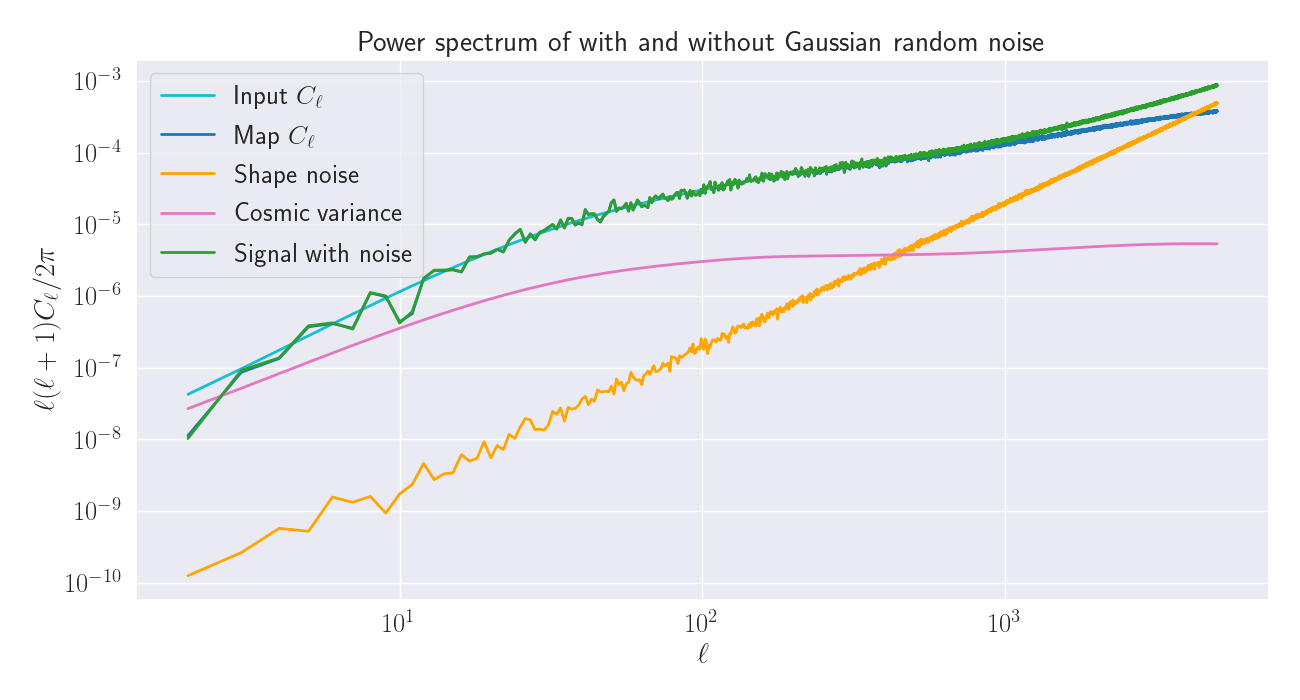
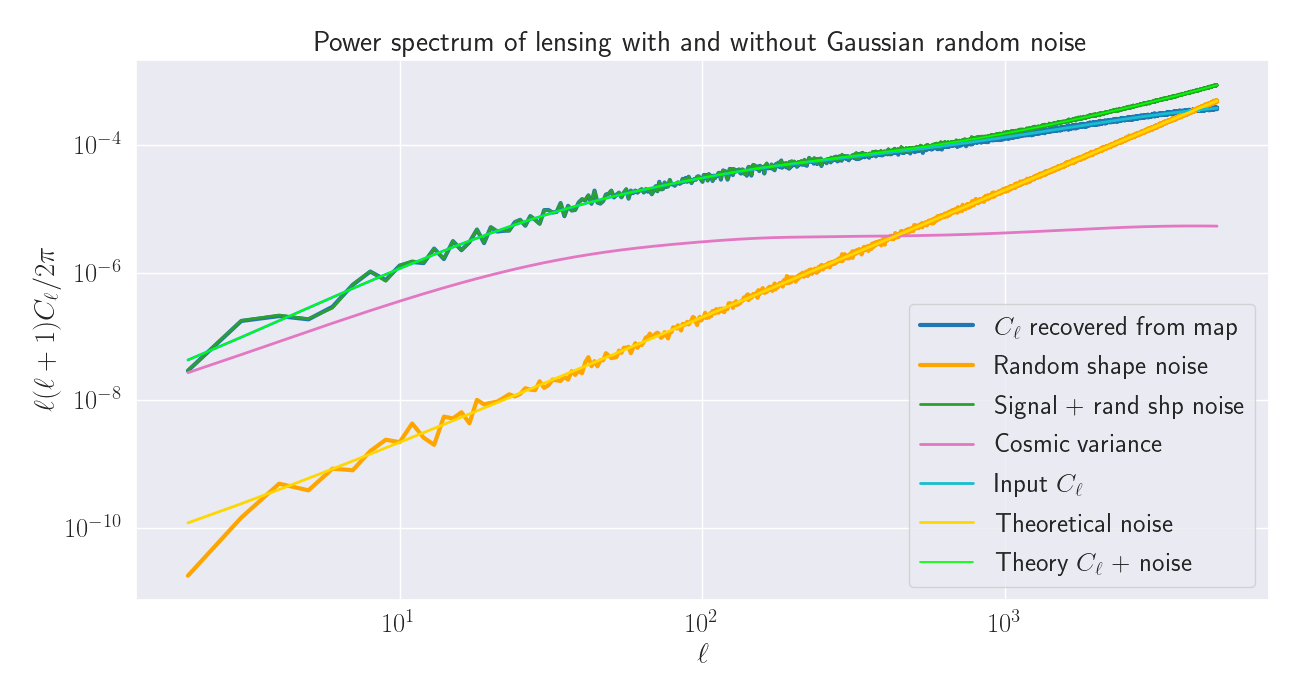
Update Markdown notebook files
- New figures for looking at masks and massive neutrinos

diff --git a/docs/DarkEnergyPowerSpec.md b/docs/DarkEnergyPowerSpec.md
@@ -336,3 +336,130 @@ We see the same story when looking at the lensing power spectrum, on the largest
 falls below that of one massive neutrino, but then rises up on the non-linear scales.
 
 We note that the deviation between these models peaks at around +/- 2% in both spectra.
+
+## Effects of neutrinos on the energy densities
+
+### Decreased dark energy density
+
+In the above plots, we have change the sum of the neutrinos masses while keeping the cold dark matter and baryon densities
+today fixed. Furthermore, as we required that our models are for a flat universe (*K* = 0), we find that as we increase
+the energy density from neutrinos, we must decrease the dark energy density. We can quantify by taking the ratio of the
+dark energy density of the massive neutrino cases with the massless neutrinos, to give
+
+* 99.7% for Σmν = 0.10 eV
+* 99.2% for Σmν = 0.25 eV
+
+We see that while this is only a very small difference, the reduced dark energy can have a considerable effect on the
+evolution of the universe, such as delaying the epoch of acceleration.
+
+### Decreased matter density parameter
+
+While we are fixing the CDM and baryon density parameters today in our models, the increased neutrino energy density
+will serve to decrease the matter density parameter Ωm in the past. We can quantify this difference by plotting the evolution
+of Ωm as a function of the scale factor for three different neutrino masses
+
+![Neutrino mass effects on Omega_matter](figures/massive_neutrinos/Omega_m_evolution.png)
+
+Here we see that as we increase the sum of the neutrino masses, we get a lower value of Ωm. Then as the lensing power
+spectrum is proportional to Ωm<sup>2</sup>, we would naturally expect to see a lower amplitude for larger neutrino masses.
+
+### Increased total energy density
+
+Above, we saw that for increased neutrino masses, Ωm decreased. We also saw that the dark energy density must be smaller
+for increased neutrino masses too. From this, we can then ask what the evolution of the total energy density is as we change
+the neutrino masses. Here, we take the ratio of the total energy density (from matter, dark energy, radiation, and neutrinos)
+for the case of massive neutrinos with respect to the massless neutrino scenario, which gives us
+
+![Neutrino mass effects on total energy density](figures/massive_neutrinos/Total_energy_dens_evo.png)
+
+Here, we see that as we increase the neutrino masses we are also increasing the total energy density of the universe,
+even though we're having to decrease the dark energy density to compensate.
+
+## Effects of neutrinos on the perturbations
+
+In our above plots, we have seen that the effects of neutrino masses have different effects depending on the scale
+of interest. To investigate this further, we can look at how different neutrino masses directly affect the evolution
+of the density variables δi. These are defined, for a species *i*, as
+
+<center>
+<img src="https://render.githubusercontent.com/render/math?math=\delta_i \equiv \frac{\delta \rho_i}{\bar{\rho}_i}." height=45> 
+</center>
+
+Hence, these quantify how large the perturbations in the density fields are relative to the mean density.
+
+Here, we evaluate the baryon and cold dark matter density contrasts, along with the "total" density contrast which is
+defined as
+
+<center>
+<img src="https://render.githubusercontent.com/render/math?math=\delta_\textrm{Tot} \equiv \frac{\rho_c \delta_c %2B \rho_b \delta_b %2B \rho_\nu \delta_\nu}{\rho_b %2B \rho_c %2B \rho_\nu}," height=45> 
+</center>
+
+and so we see how the total density contrast evolves for different neutrino masses.  
+We evaluate these density contrasts on three different scales: a linear scale of *k* = 1E-3, a quasi-linear scale of
+*k* = 5E-2, and a non-linear scale of *k* = 2.
+
+![Neutrino mass effects on perturbation evolution](figures/massive_neutrinos/Perturbations_evo.png)
+
+Here, we see what we generally expected from the effects of massive neutrinos: the larger the sum of the neutrino masses
+the more the perturbations are damped, and smaller-scales are suppressed more than larger ones.
+
+## Isolating σ8 dependence on neutrino masses
+
+In the above investigation of how different neutrino masses affect the matter and lensing power spectra, we have been
+running our simulations with fixed initial conditions: that is we fix As and ns for all models and just vary the neutrino
+mass. However, as we can accurately determine the amplitude of the matter power spectrum today, which is parametrised by
+σ8, regardless of neutrino masses, we can fix this value and work out what the new spectra are.
+
+### σ8 as a function of As
+
+First, as σ8 is not an input parameter to a CAMB model, we need to run a verity of models with different As values to
+compute what the expected σ8 value. This then allows us to invert this relationship to find the approximate value of As
+that would give the same σ8 values between the models. Here, we look at five different models
+
+* Σmν = 0, to get a base level of no neutrino masses
+* Σmν = 0.10 eV, with both one and three massive neutrinos
+* Σmν = 0.25 eV, again with both one and three massive neutrinos
+
+Computing this for our five models gives us
+
+![Sigma_8 as a function of as](figures/massive_neutrinos/Isolate_σ8/As_σ8.png)
+
+Hence, we now have five different As values that all give the same σ8 value once the models have been evolved to today.
+
+### Effects on the matter power spectrum
+
+First, we looked at evaluating the matter power spectrum for our five models at two redshifts: the solid lines corresponds
+to *z* of two, whereas the dashed lines are for *z* = 0.5.
+
+![Sigma_8 dependence on matter power spec](figures/massive_neutrinos/Isolate_σ8/Matter_powerspec.png)
+
+Here, we can (just about) see that the lines for the increased neutrino mass are slightly above the massless neutrino case
+on both the very large scales, and very small scales, with the lines merging at intermediate scales. This makes sense as
+we have normalised the amplitude at a specific scale, but the detailed physics of increasing the neutrino masses causes
+different scales to evolve differently.
+
+To get a better idea of how the different scales evolve when we fix σ8, we can take the ratio of the lines for the
+massive neutrino cases with the massless neutrino case, to give
+
+![Sigma_8 dependence on matter power spec ratio](figures/massive_neutrinos/Isolate_σ8/Matter_powerspec_ratio.png)
+
+Here, we see that on both very large and small scales, the amplitude of our massive neutrinos is larger than for
+massless neutrinos, with this effect growing with the neutrino masses. We also note that there is quite a large redshift
+dependence on this growth, especially for the very non-linear scales.
+
+### Effects on the lensing power spectrum
+
+We can now repeat the same analysis, but focusing on the lensing power spectrum now. Here, we use the same five models
+and the same two redshift bins, again where the solid lines correspond to *z* of two, whereas the dashed lines
+are for *z* = 0.5.
+
+![Sigma_8 dependence on lensing power spec](figures/massive_neutrinos/Isolate_σ8/Lensing_powerspec.png)
+
+Again, we can just about see that as we increase the neutrino masses, we see that the lensing power spectrum has a larger
+amplitude. However, to get a better view of this we again take the ratios
+
+![Sigma_8 dependence on lensing power spec ratio](figures/massive_neutrinos/Isolate_σ8/Lensing_powerspec_ratio.png)
+
+Here, we see the same behaviour as the matter power spectrum: a large increase in power on both the very large scales
+(small *l*) and very small scales (large *l*). This difference clearly grows as we increase the neutrino masses, and
+is larger for only one massive neutrino than for three massive neutrinos. We also see a strong redshift dependence here.

diff --git a/docs/InvestigatingMasks.md b/docs/InvestigatingMasks.md
@@ -31,5 +31,69 @@ With this mask in place, we can now plot the raw temperature anisotropy data of 
 
 Hence, we recover a much cleaner signal with values that match the theoretical prediction of the CMB signal alone.
 
+## Masks for Euclid
+
+Above, we were looking at masks for WMAP, which of course was a CMB experiment and so much less sensitive to bright sources
+or nearby galaxies than optical galaxy surveys. We can now look at what a prototype Euclid mask may look like, which is
+
+![Galaxy counts power spectrum](figures/investigating_masks/Euclid_mask.png)
+
+Here, we can see that there is a large band around the centre of the map, which corresponds to masking out the Milky Way,
+as this plot is in galactic coordinates. We also see that there is a slightly smaller band that appears to oscillate in our
+mask. This is the ecliptic plane of the Solar System, and looks this way because we are plotting the mask in galactic
+coordinates. If we were plotting this mask in ecliptic coordinates, then we would find that the Solar System runs
+through the centre of our mask, by definition.
+
+From a mask, we can define the fraction of the surveyed sky *f* as
+
+<center>
+<img src="https://render.githubusercontent.com/render/math?math=f_\textrm{sky} \equiv \frac{\textrm{Unmasked&#160;area}}{\textrm{Total&#160;area}} ," height=40> 
+</center>
+
+For the Euclid trial mask above, we find the fraction of sky observed is around 37%.
+
+### Creating a semi-realistic Euclid mask
+
+As discussed above, the two most important objects when making a mask for an optical galaxy survey are the Milky Way and the
+Solar System. Hence, we can create a semi-realistic mask by just masking them out in their respective coordinate systems.  
+This is shown below:
+
+![Milky way and solar system mask](figures/investigating_masks/MilkyWay_SolarSystem_mask.png)
+
+Here, we have taken the Milky Way to be a cylindrical band between θ = π/3 and θ = 2π/3 in galactic coordinates, and the
+Solar System to be another cylindrical band but one slightly thinner going from θ = 2π/5 to θ = 3π/5 in ecliptic coordinates.
+
+> Do note that these are just arbitrary angles for both objects that I have plucked out of thin air based on the rough size
+> of the Euclid map above!
+
+Now that we have our two individual regions that we want to mask out, we need to combine these to form a single mask.
+To do so, we need to set up a HealPy `Rotator` object to rotate our Solar System mask from ecliptic to galactic coordinates.
+Now that we have both masks in a single coordinate system, we can combine them to form a new mask which only allows data
+through if the region is unmasked in both maps. As these maps are simply NumPy arrays, we can use `np.logical_and` to
+combine them in the correct way. This gives us our combined map, which in galactic coordinates, looks like
+
+![Combined dummy mask](figures/investigating_masks/Combined_dummy_mask.png)
+
+Here, we see our dummy mask looks very much like the prototype Euclid mask (which makes sense, and is good!) except for a
+few extra regions which our very simple approximation of cylindrical regions does not include.  
+We also note that our fraction of sky observed using the dummy mask is around 32%, which is broadly comparable to the
+Euclid mask.
+
 ## Obtaining power spectra from masked maps
 
+Now that we have a realistic mask for Euclid-like observations, we can now apply this to maps and see what their effects
+are on the power spectrum coefficients recovered from the map.
+
+First, let us apply the Euclid mask to some noisy convergence data provided from Flask.
+
+![Combined dummy mask](figures/investigating_masks/Converg_with_mask.png)
+
+Now that we have our masked map, we can compute what the *Cl* values are using the masked map
+
+![Combined dummy mask](figures/investigating_masks/Converg_power_with_mask.png)
+
+Here, we have plotted the *Cl*s recovered from the **full** map in blue, and those recovered from the masked map in green.
+Nothing that the masked *Cl* values look like the original *Cl* values, just at a lower amplitude, we have applied a very
+naive "correction" to the masked *Cl*s where we simply divide by the fraction of sky observed, which results in the orange
+line. We see that this basic correction seems to work remarkably well across all *l* values, subject to a bit of noise,
+which is very interesting to see.  

diff --git a/docs/MapMaking.md b/docs/MapMaking.md
@@ -265,6 +265,22 @@ where σ_e is the average intrinsic ellipticity of galaxies, taken to be 0.21 fo
 galaxies in each pixel. We assume a flat distribution of galaxies on the sky, where we have 30 galaxies
 per arcmin<sup>2</sup>.
 
+We now wish to analytically derive what the *Cl* values for a pure Gaussian noise map is. To do so, we can use the fact
+that if we have a pure noise map, then the estimator for the convergence in a given pixel will be
+
+<center>
+<img src="https://render.githubusercontent.com/render/math?math=\left\langle \kappa \kappa \right\rangle = \frac{\sigma_\mathscr{E}^2}{N}." height=45> 
+</center>
+
+From this, we find the contribution to the total *Cl* values from the noise is given by
+
+<center>
+<img src="https://render.githubusercontent.com/render/math?math=\C_\ell^\textrm{N} = \frac{\sigma_\mathscr{E}^2}{n}" height=45> 
+</center>
+
+where *n* is the observed galaxy density in units of galaxies per radian<sup>2</sup>. We note that this is independent
+of *l*, and so when we plot *l*(*l* + 1)*Cl*, like below, we expect to see a straight line on a log-log plot.  
+
 Using this, we can generate a random noise map following this distribution and can simply add this map to our recovered
 convergence map from Flask, and generate *Cl* values for the map with noise, to give
 
@@ -275,3 +291,6 @@ Hence, when we add this to our existing power spectrum, we find that it has negl
 values of around 900, it starts to have a non-negligible effect on the *Cl* values, and after *l* of around 2000 the power
 spectrum is completely dominated by noise. We also see the large effect of the cosmic variance on low *l* scales, which
 shows that the region of data where we have large a signal-to-noise ratio is only for a small range of *l* values.
+
+We also see that the random realisation that was chosen for this simulation is very accurately described by the theory lines
+for both the noise and the convergence signal.
